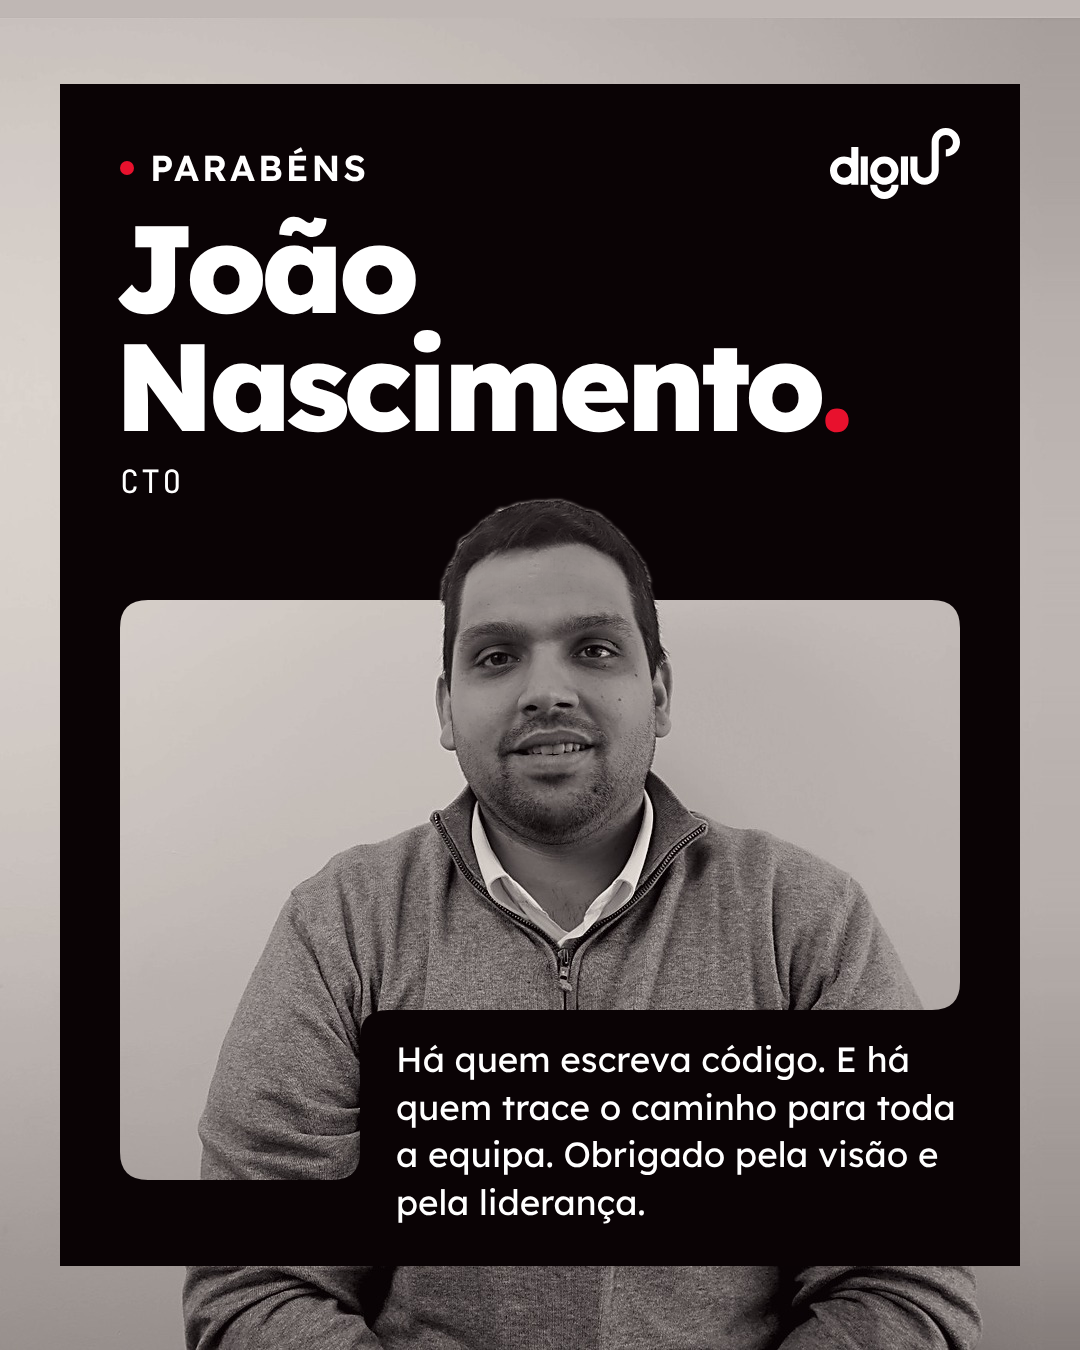
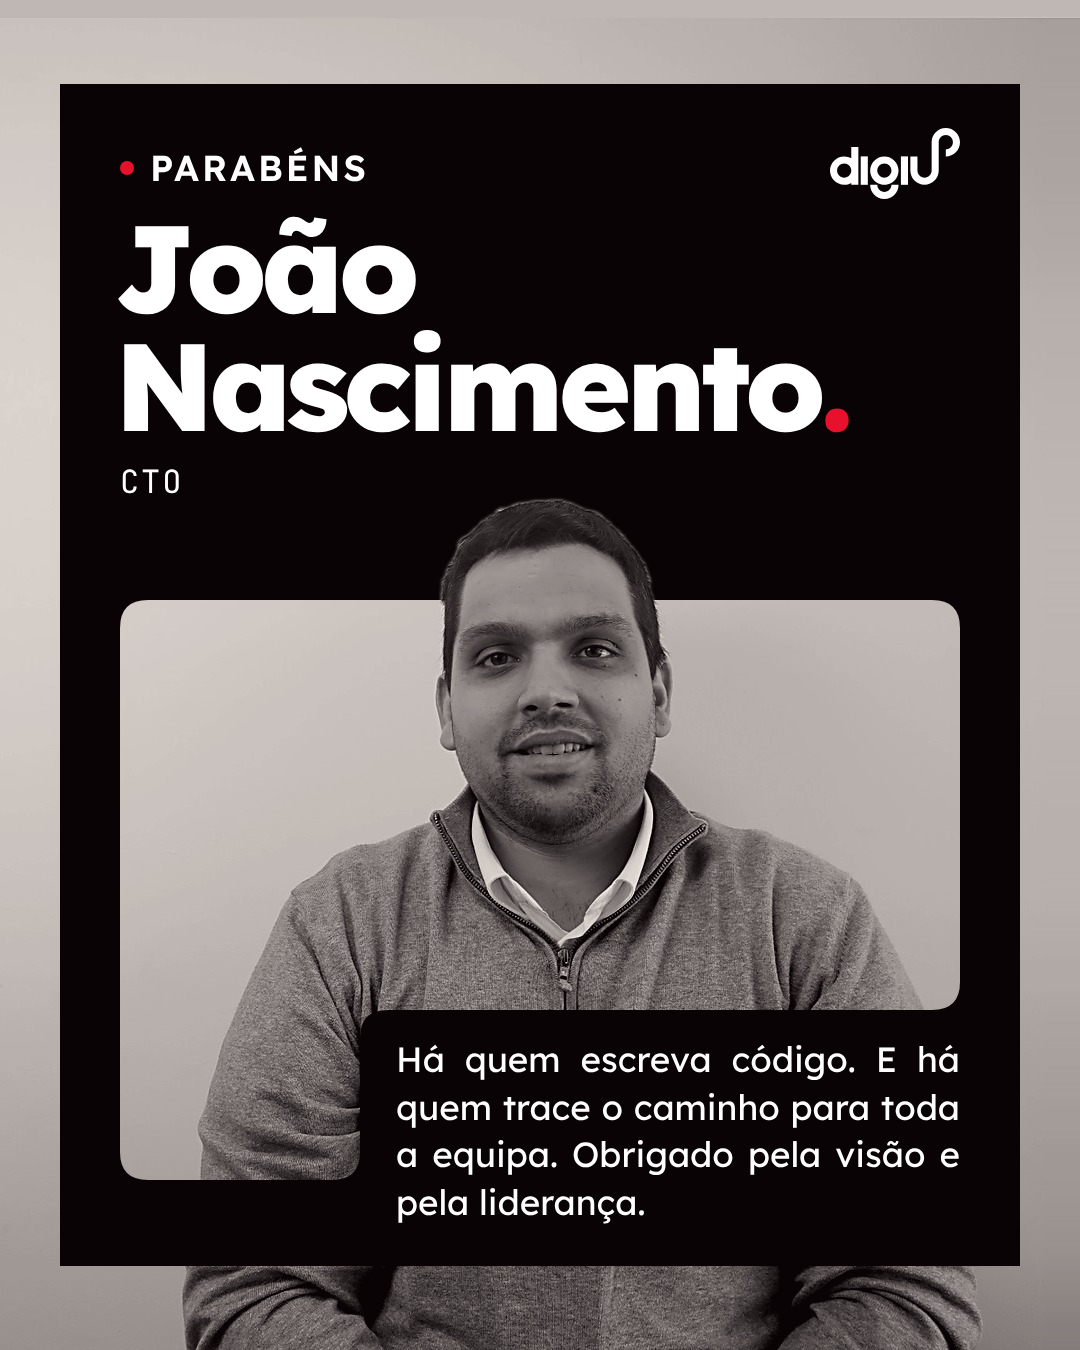
Aniversário do João (preto): texto de baixo justificado
Claude-Session: https://claude.ai/code/session_0173GtUhSHhHFQaxLRUGv3dG

Changed region(s): [[0.3972, 0.7778, 0.8861, 0.8711]]

diff --git a/aniversario-joao/post-v2-preto/carrossel.html b/aniversario-joao/post-v2-preto/carrossel.html
@@ -43,7 +43,7 @@ body{background:#17181a;font-family:var(--du-font-sans);padding:56px}
 
 
 
-  <p class="abs" style="left:396px;top:1036px;width:564px;color:var(--du-white);font-size:35px;line-height:1.36;font-weight:400">Há quem escreva código. E há quem trace o caminho para toda a equipa. Obrigado pela visão e pela liderança.</p>
+  <p class="abs" style="left:396px;top:1036px;width:564px;color:var(--du-white);font-size:35px;line-height:1.36;font-weight:400;text-align:justify;text-align-last:left;hyphens:auto">Há quem escreva código. E há quem trace o caminho para toda a equipa. Obrigado pela visão e pela liderança.</p>
 </section>
 </body>
 </html>
